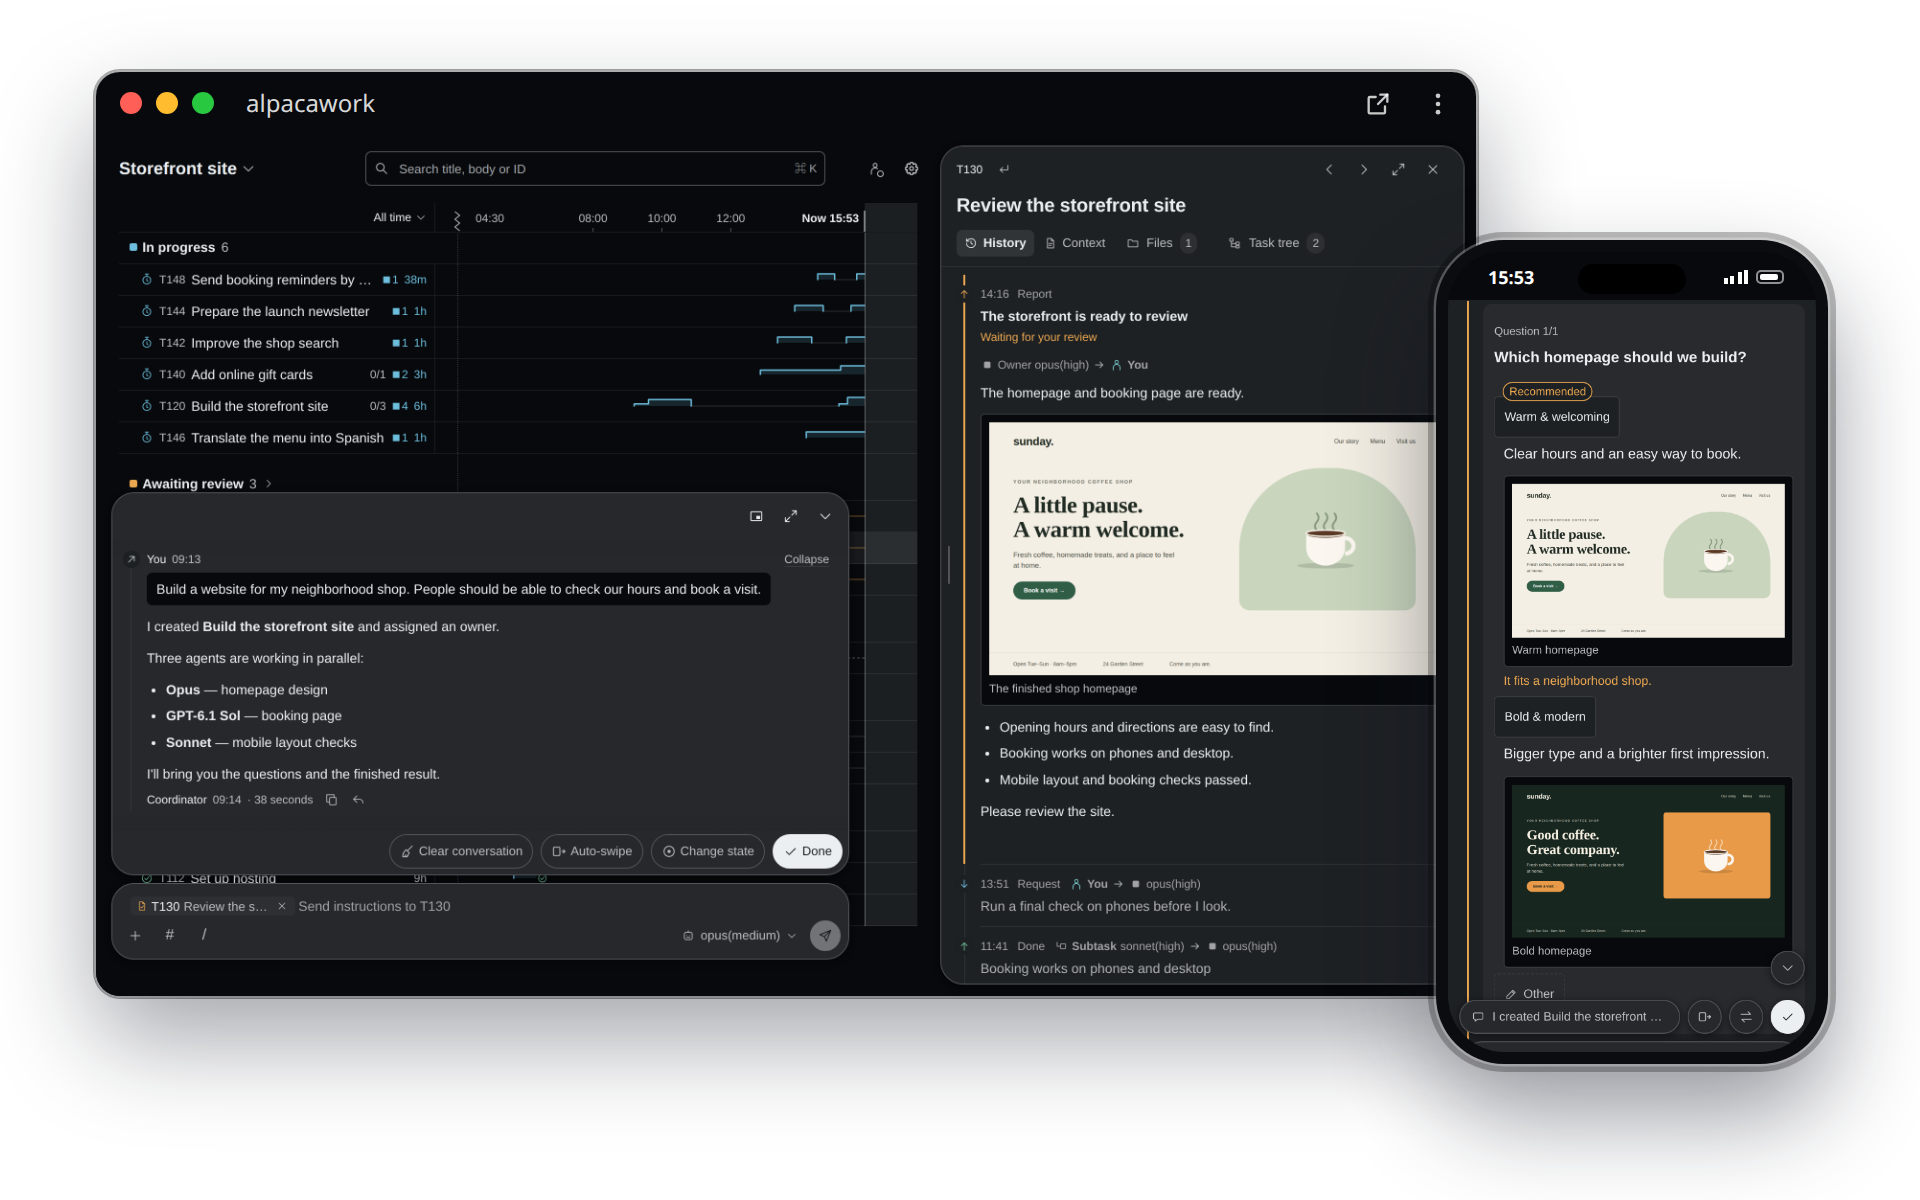
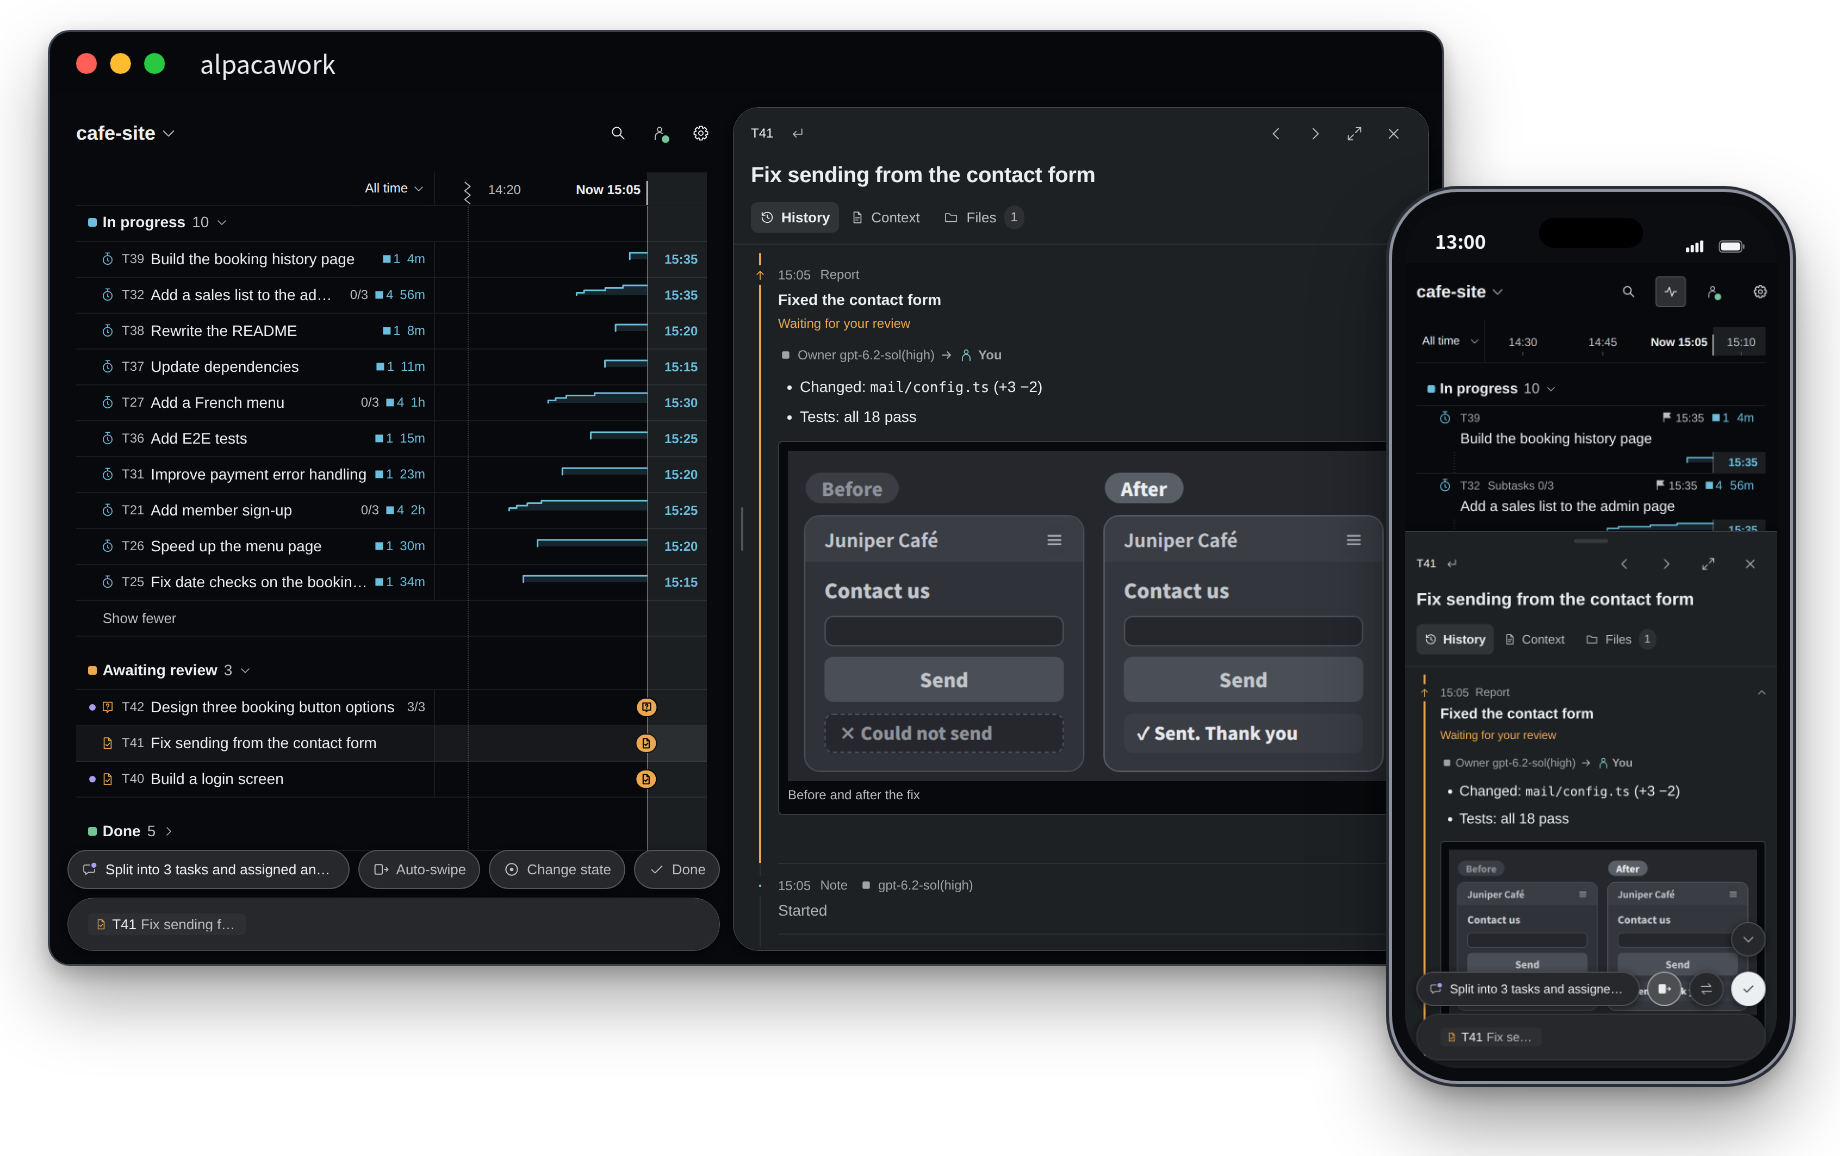
Show the intro video's closing screen in every README and drop unused pictures
- docs/images/pc-phone-dark.png now shows the same scene as the Japanese
  picture (ten tasks in progress, three awaiting review, an open report
  on desktop and phone), taken from the English intro video's closing
  screen. The English, Chinese, Spanish and Portuguese READMEs use it.
- Remove twelve pictures that no README or guide shows any more.

diff --git a/README.md b/README.md
@@ -1,5 +1,5 @@
 <!--
-Link to files of this project by their path from the repository root (docs/images/hero.gif,
+Link to files of this project by their path from the repository root (docs/images/logo.png,
 docs/getting-started.md, LICENSE), and only to files committed to git: GitHub opens them on every
 branch. Put pictures in docs/images/, which the npm package carries. Write links and pictures as
 inline Markdown links or as src and href attributes in double quotes.
@@ -51,7 +51,7 @@ to README.md#install): keep those headings, or change the links with them.
 <!-- The intro video goes here once it is uploaded on github.com: one line holding the URL GitHub gives. Then move the picture below to the end of the features list. -->
 
 <p align="center">
-  <img src="docs/images/pc-phone-dark.png" alt="alpacawork in a PC browser, with the task list and an open report side by side, next to a phone showing a question that offers two options to choose from" width="820">
+  <img src="docs/images/pc-phone-dark.png" alt="alpacawork in a PC browser, with a list of ten tasks in progress and three awaiting review beside an open task's report, and a phone on the right showing the same report" width="820">
 </p>
 
 alpacawork is a tool (an AI harness) that runs the Claude Code and Codex agents already installed on your PC and assigns work to them. Write what you want in one chat box, and your point of contact, an AI called the coordinator, turns it into tasks, assigns them to other AIs and tracks progress. You do three things: ask, answer questions, and check the results. You can use it from your phone in the same way.

diff --git a/README.pt-BR.md b/README.pt-BR.md
@@ -26,7 +26,7 @@
 <!-- The intro video goes here once it is uploaded on github.com: one line holding the URL GitHub gives. Then move the picture below to the end of the features list. -->
 
 <p align="center">
-  <img src="docs/images/pc-phone-dark.png" alt="O alpacawork no navegador de um PC, com a lista de tarefas e um relatório aberto lado a lado, ao lado de um celular que mostra uma pergunta com duas opções para escolher" width="820">
+  <img src="docs/images/pc-phone-dark.png" alt="O alpacawork no navegador de um PC, com uma lista de dez tarefas em andamento e três aguardando revisão ao lado do relatório aberto de uma tarefa, e à direita um celular que mostra o mesmo relatório" width="820">
 </p>
 
 O alpacawork é uma ferramenta (um harness de IA) que executa os agentes Claude Code e Codex já instalados no seu PC e atribui trabalho a eles. Escreva o que você quer em um único campo de mensagem, e o coordenador, a IA que é seu ponto de contato, transforma isso em tarefas, atribui as tarefas a outras IAs e acompanha o andamento. Você faz três coisas: pede, responde às perguntas e revisa os resultados. Pelo celular, você usa do mesmo jeito.

diff --git a/README.es.md b/README.es.md
@@ -26,7 +26,7 @@
 <!-- The intro video goes here once it is uploaded on github.com: one line holding the URL GitHub gives. Then move the picture below to the end of the features list. -->
 
 <p align="center">
-  <img src="docs/images/pc-phone-dark.png" alt="alpacawork en el navegador de un PC, con la lista de tareas y un informe abierto, uno al lado del otro, junto a un teléfono que muestra una pregunta con dos opciones para elegir" width="820">
+  <img src="docs/images/pc-phone-dark.png" alt="alpacawork en el navegador de un PC, con una lista de diez tareas en curso y tres por revisar junto al informe abierto de una tarea, y a la derecha un teléfono que muestra el mismo informe" width="820">
 </p>
 
 alpacawork es una herramienta (un harness de IA) que ejecuta los agentes Claude Code y Codex que ya tienes instalados en tu PC y les asigna trabajo. Escribe lo que quieres en un solo cuadro de chat, y el coordinador, la IA que es tu punto de contacto, lo convierte en tareas, las asigna a otras IA y sigue el progreso. Tú haces tres cosas: pedir, responder preguntas y revisar los resultados. También puedes usarlo desde tu teléfono de la misma manera.

diff --git a/README.zh-CN.md b/README.zh-CN.md
@@ -26,7 +26,7 @@
 <!-- The intro video goes here once it is uploaded on github.com: one line holding the URL GitHub gives. Then move the picture below to the end of the features list. -->
 
 <p align="center">
-  <img src="docs/images/pc-phone-dark.png" alt="电脑浏览器中的 alpacawork，任务列表和打开的报告并排显示；旁边的手机上是一个提问，附有两个可供选择的选项" width="820">
+  <img src="docs/images/pc-phone-dark.png" alt="电脑浏览器中的 alpacawork，列表里有 10 个进行中和 3 个待验收的任务，旁边并排显示打开的任务报告；右侧的手机上打开着同一份报告" width="820">
 </p>
 
 alpacawork 是一个工具（AI harness），它运行你电脑上已安装的 Claude Code 和 Codex 智能体，并为它们指派工作。在一个聊天框里写下想做的事，与你对接的 AI（协调员）就会把它变成任务，指派给负责处理的 AI，并跟进进度。你要做的有三件事：提出委托、回答提问、验收结果。在手机上也能同样使用。
